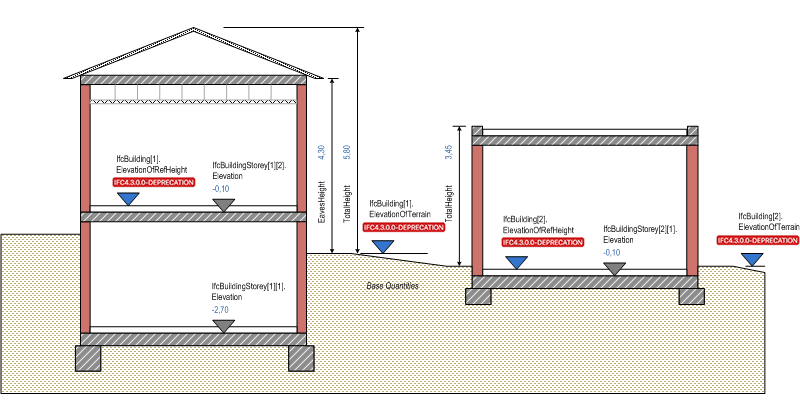
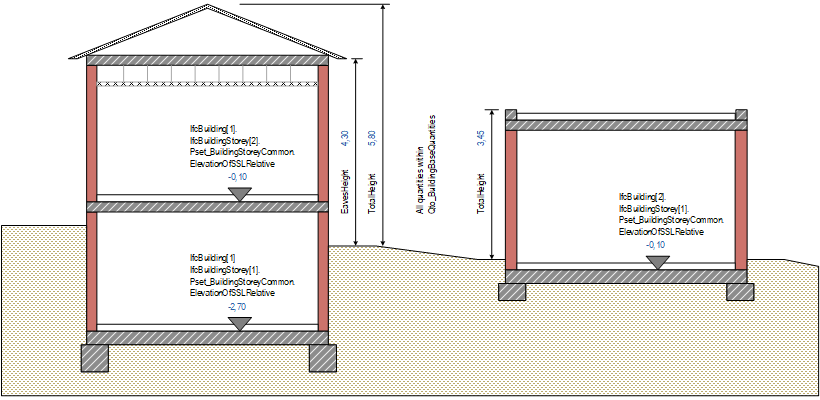
update on building and storey
figure and documentation update #36 and #405

diff --git a/docs/schemas/core/IfcProductExtension/Entities/IfcBuildingStorey.md b/docs/schemas/core/IfcProductExtension/Entities/IfcBuildingStorey.md
@@ -25,8 +25,8 @@ Figure 1 &mdash; Building storey composition
 
 Figure 2 describes the heights and elevations of the _IfcBuildingStorey_.
 
-* elevation of the structural slab level: provided by _Qto_BuildingStoreyBaseQuantities_ with Name="ElevationOfSSLRelative"
-* elevation of the finish floor level: provided by _Qto_BuildingStoreyBaseQuantities_ with Name="ElevationOfFFLRelative"
+* elevation of the structural slab level: provided by _Pset_BuildingStoreyCommon_ with Name="ElevationOfSSLRelative"
+* elevation of the finish floor level: provided by _Pset_BuildingStoreyCommon_ with Name="ElevationOfFFLRelative"
 * gross height of storey, also referred to as total height or system height (top of construction slab to top of construction slab above): provided by _Qto_BuildingStoreyBaseQuantities_ with Name="GrossHeight"
 * net height of storey (top of construction slab to bottom of construction slab above): provided by _Qto_BuildingStoreyBaseQuantities_ with Name="NetHeight"
 
